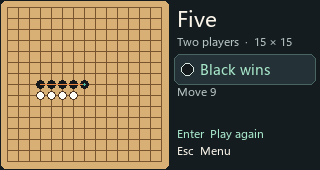
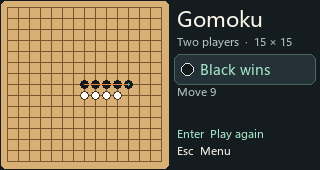
Localize Five menu and game titles in 1.2.1-2

Changed region(s): [[0.0938, 0.4706, 0.4375, 0.5882], [0.5625, 0.0588, 0.8438, 0.1765]]

diff --git a/ui.py b/ui.py
@@ -17,6 +17,7 @@ WOOD, GRID = "#d8af75", "#78542f"
 PREVIEW_MOVES = ((2, 6), (3, 6), (3, 5), (4, 5), (4, 4), (5, 4), (5, 3), (4, 3), (6, 2))
 
 LABELS = {
+    "game_title": ("五子棋", "Gomoku"),
     "lan": ("局域网联机", "LAN play"),
     "lan_host": ("创建房间", "Host room"),
     "lan_first": ("先手", "First move"),
@@ -229,7 +230,7 @@ class Screen:
                   None if game.ended else cursor, last, game.result.line,
                   bool(game.result.foul), gameplay=True,
                   forbidden=game.forbidden_points() if app.settings.show_fouls else ())
-            text(177, 10, TITLE, 21)
+            text(177, 10, tr("game_title"), 21)
             subtitle = (tr("lan") + "  ·  " + tr("play_black" if session.color == BLACK else "play_white")
                         if session else tr(app.mode) + "  ·  " +
                         (tr(app.level) if app.mode == "cpu" else tr(game.size)))
@@ -333,7 +334,7 @@ class Screen:
             return image
 
         if app.page == "home":
-            text(14, 10, TITLE, 23)
+            text(14, 10, tr("game_title"), 23)
             board(draw, (190, 15, 305, 129), 9,
                   {point: 1 + index % 2 for index, point in enumerate(PREVIEW_MOVES)},
                   last=PREVIEW_MOVES[-1])

diff --git a/build_package.py b/build_package.py
@@ -43,7 +43,7 @@ def main():
     launcher = "usr/share/APPLaunch"
     icon_path = f"{launcher}/share/images/five.png"
     control = """Package: five
-Version: 1.2.1-1
+Version: 1.2.1-2
 Section: games
 Priority: optional
 Architecture: arm64
@@ -82,7 +82,7 @@ Categories=Game;BoardGame;
         f"{docs}/LICENSE": ((root / "LICENSE").read_bytes(), 0o644),
         f"{docs}/build_rapfi.ps1": ((root / "build_rapfi.ps1").read_bytes(), 0o644),
     })
-    output = root / "dist" / "five_1.2.1-1_arm64.deb"
+    output = root / "dist" / "five_1.2.1-2_arm64.deb"
     output.parent.mkdir(exist_ok=True)
     output.write_bytes(b"!<arch>\n" + b"".join((
         ar_member("debian-binary", b"2.0\n"),

diff --git a/README.md b/README.md
@@ -4,10 +4,10 @@
 
 ## 安装
 
-将 `dist/five_1.2.1-1_arm64.deb` 复制到 Cardputer Zero，在设备上运行：
+将 `dist/five_1.2.1-2_arm64.deb` 复制到 Cardputer Zero，在设备上运行：
 
 ```sh
-sudo apt install ./five_1.2.1-1_arm64.deb
+sudo apt install ./five_1.2.1-2_arm64.deb
 ```
 
 安装后从应用启动器打开 **Five**。
@@ -45,6 +45,11 @@ Play Gomoku against Rapfi at three difficulty levels, take turns on one Cardpute
 | ![等待对手](screenshots/room-code-zh.png) | ![Waiting for opponent](screenshots/room-code-en.png) |
 
 ## 最近改动 / What's new
+
+**1.2.1-2**
+
+- 主菜单和对局标题随界面语言显示「五子棋」或「Gomoku」。商店应用名仍为 Five。
+- The main menu and game titles follow the interface language, showing 五子棋 in Chinese and Gomoku in English. The store name remains Five.
 
 **1.2.1-1**
 
